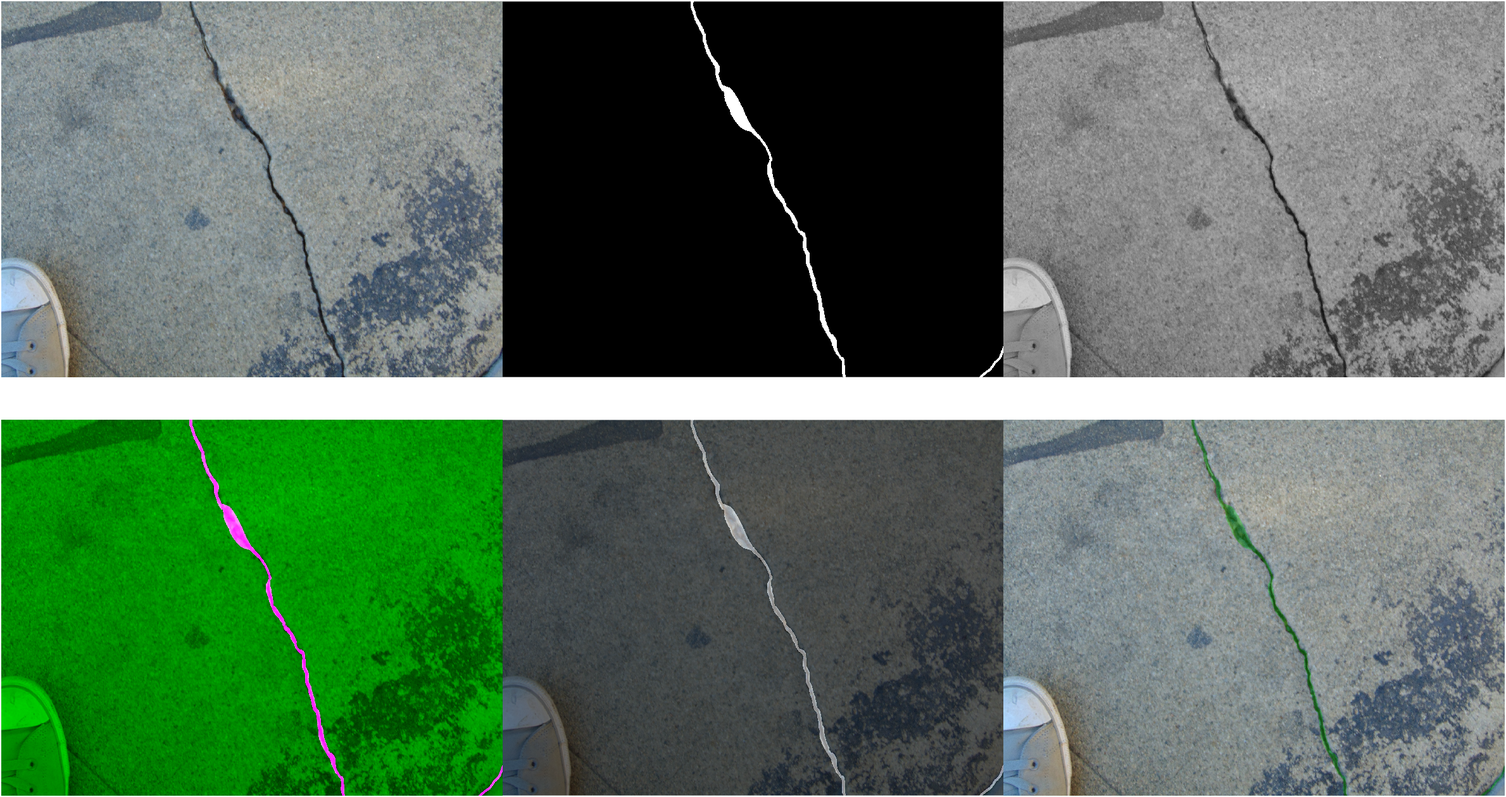
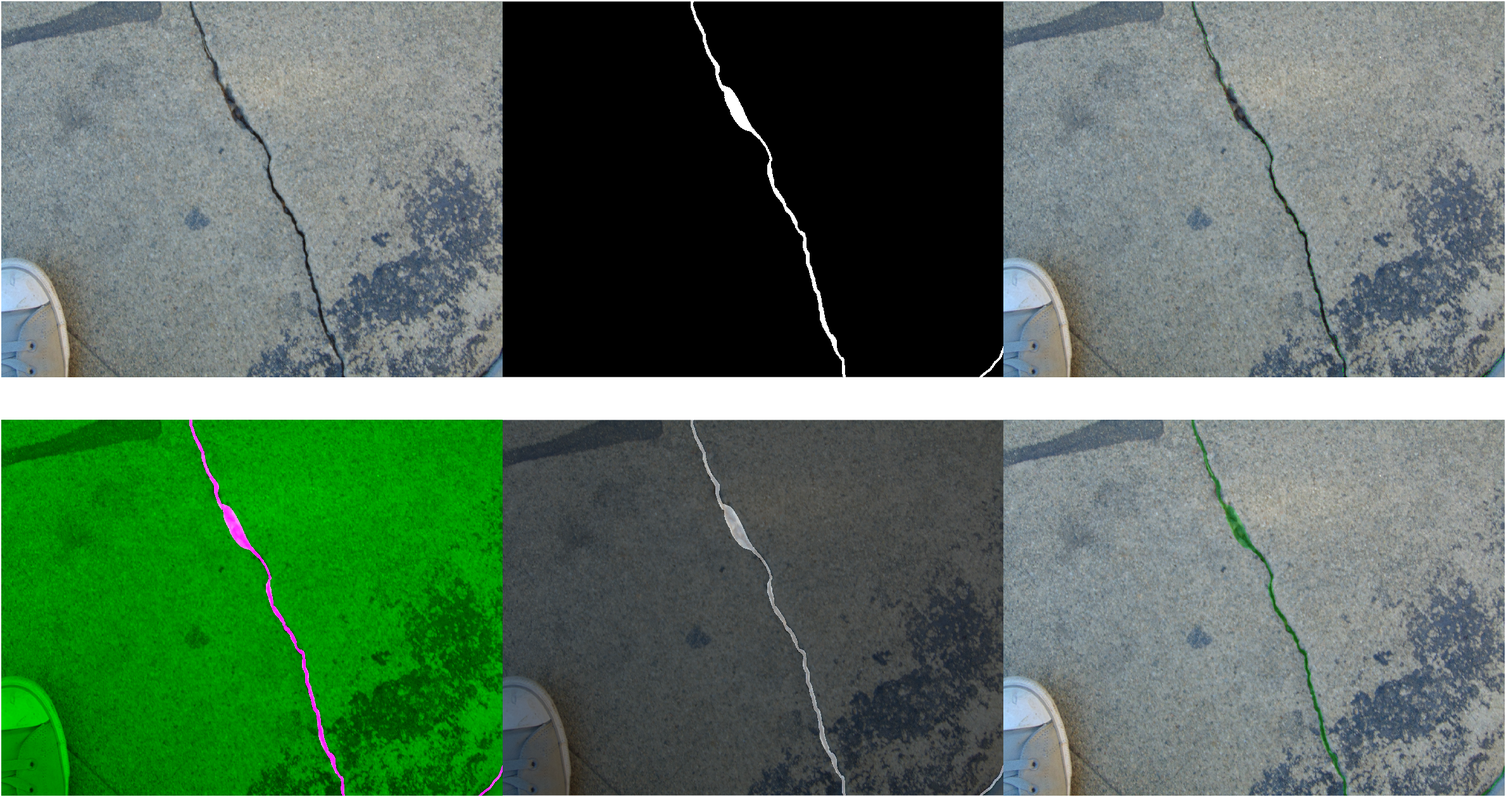
Added boundaries tracing option.

diff --git a/main.m b/main.m
@@ -30,19 +30,24 @@ inputBW_image = [];
 colorspace = 'hsv';
 imresize_values = [242,322];
 resize_image = 0;  % To speed up. Use mytiledlayoutComplex = 0 without resize. Slightly faster.
-mytiledlayoutComplex = 1;
+mytiledlayoutComplex = 0;
 
 %% Overlay images
 img_files = dir(labeled_image_folder);
 img_files = {img_files(3:end).name};
 
+img_orifiles = dir(original_image_folder);
+img_orifiles = {img_orifiles(3:end).name};
+
 for i = 1:numel(img_files)
     
     % Image read
-    Iground = imread(fullfile(labeled_image_folder, img_files{i}));
-    Ioriginal = imread(fullfile(original_image_folder, img_files{i}));
-    IoriginalGrayscale = rgb2gray(Ioriginal);
-    
+    Iground = logical(imread(fullfile(labeled_image_folder, img_files{i})));
+    Ioriginal = imread(fullfile(original_image_folder, img_orifiles{i}));
+
+    % Get boundaries
+    bndOverlay = bwperim(Iground, 8);    
+
     if (resize_image == 1)
         Iground = imresize(Iground, imresize_values);
         Ioriginal = imresize(Ioriginal, imresize_values);
@@ -60,6 +65,10 @@ for i = 1:numel(img_files)
 
         % Get label overlay (MATLAB's inbuilt function)
         lab_overlay = labeloverlay(Ioriginal,Iground, Transparency = 0.75, Colormap = [0 1 0]);
+
+        % Get binary mask boundries
+        bndries = imoverlay(Ioriginal, bndOverlay, [0 1 0]);
+
         if mytiledlayoutComplex == 1
             % Show the plot        
             % Initialize a tight subplot
@@ -67,7 +76,7 @@ for i = 1:numel(img_files)
     
             ax1 = nexttile; imshow(Ioriginal)
             ax2 = nexttile; imshow(Iground)
-            ax3 = nexttile; imshow(IoriginalGrayscale) 
+            ax3 = nexttile; imshow(bndries) 
     
             ax4 = nexttile; imshowpair(Ioriginal,Iground, "falsecolor", ColorChannels= "green-magenta");        
             ax5 = nexttile; imshowpair(Ioriginal,Iground, "blend");               
@@ -80,9 +89,10 @@ for i = 1:numel(img_files)
             [filepath,name,ext] = fileparts(img_files{i});
             exportgraphics(gcf,fullfile('assets', [name '_complex' '.png']))
         else
-            tiledlayout(1,2, 'TileSpacing', 'tight', 'Padding', 'compact');
+            tiledlayout(1,3, 'TileSpacing', 'tight', 'Padding', 'compact');
             ax1 = nexttile; imshow(Ioriginal)
-            ax2 = nexttile; imshow(lab_overlay);
+            ax2 = nexttile; imshow(bndries);
+            ax3 = nexttile; imshow(lab_overlay);
 
             % Link axes
             linkaxes([ax1,ax2], 'xy'); 
